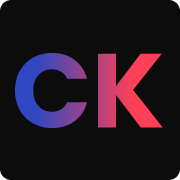
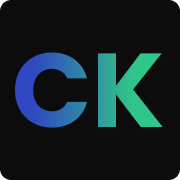
colors makeover

diff --git a/app/about/page.tsx b/app/about/page.tsx
@@ -117,7 +117,7 @@ export default function Page() {
         </h1>
       </button>
       <div className="relative group rounded-lg w-full text-justify p-3 xs:p-6 xs:px-10 py-6">
-        <div className="absolute -inset-0 rounded-lg bg-gradient-to-r from-darkCk/50 to-lightCk/50 opacity-20 transition duration-500 group-hover:opacity-50"></div>
+        <div className="absolute -inset-0 rounded-lg bg-gradient-to-r from-blue/50 to-green/50 opacity-20 transition duration-500 group-hover:opacity-50"></div>
         <h2 className={`relative text-2xl xxs:text-3xl md:text-4xl text-center`}>Description</h2>
         <p className="relative text-lg xs:text-xl mt-4">
           Hi there! My name is Chhatresh Khatri and I&apos;m a Full Stack developer with a passion for building modern and user-friendly websites and
@@ -134,7 +134,7 @@ export default function Page() {
         </h2>
       </button>
       <div className="relative group rounded-lg w-full">
-        <div className="absolute -inset-0 rounded-lg bg-gradient-to-r from-darkCk/50 to-lightCk/50 opacity-20 transition duration-500 group-hover:opacity-50"></div>
+        <div className="absolute -inset-0 rounded-lg bg-gradient-to-r from-blue/50 to-green/50 opacity-20 transition duration-500 group-hover:opacity-50"></div>
         <div className="relative flex flex-col w-full p-3 xs:p-6 xs:px-10 py-6 gap-4">
           <Skills skillName="Languages" arrayName={languages} />
           <Skills skillName="Frameworks & Libraries" arrayName={frameworks} />

diff --git a/app/page.tsx b/app/page.tsx
@@ -14,7 +14,7 @@ export default function Home() {
         </button>
       </div>
       <div className="relative group grid grid-cols-1 w-full lg:grid-cols-3">
-        <div className="absolute -inset-0 rounded-lg bg-gradient-to-r from-darkCk/50 to-lightCk/50 opacity-20 transition duration-500 group-hover:opacity-50"></div>
+        <div className="absolute -inset-0 rounded-lg bg-gradient-to-r from-blue/50 to-green/50 opacity-20 transition duration-500 group-hover:opacity-50"></div>
         <div className="relative order-2 lg:order-1 lg:col-span-2 flex justify-end items-center rounded-lg">
           {/* Content for the first column */}
           <div className="w-full h-full flex flex-col justify-center rounded-lg p-2 md:gap-4 xs:p-6">

diff --git a/app/components/ProjectHolder.tsx b/app/components/ProjectHolder.tsx
@@ -31,7 +31,7 @@ const ProjectHolder: React.FC<CustomProps> = ({
 }) => {
   return (
     <div className="group relative">
-      <div className="absolute -inset-0 rounded-lg bg-gradient-to-r from-darkCk/50 to-lightCk/50 opacity-20 transition duration-500 group-hover:opacity-50"></div>
+      <div className="absolute -inset-0 rounded-lg bg-gradient-to-r from-blue/50 to-green/50 opacity-20 transition duration-500 group-hover:opacity-50"></div>
       <div className="relative grid grid-cols-1 w-full gap-1 lg:grid-cols-2 rounded-xl p-3 xs:p-6">
         <div className={`${order == "odd" ? "" : "lg:order-2"}`}>
           {/* Content for the first column */}

diff --git a/tailwind.config.ts b/tailwind.config.ts
@@ -27,13 +27,15 @@ const config: Config = {
       colors: {
         dark: "#191919",
         light: "#f3f3FF",
-        darkCk: "#5740FF",
-        lightCk: "#FF4057",
+        darkCk: "#4158D0",
+        lightCk: "#FFCC70",
         darked: "#0c0c0c",
-        contentBg: "#E3E3FF",
-        navbarBg: "#D3D3FF",
+        contentBg: "#dde6ff",
+        navbarBg: "#c7e1fc",
         darker: "#101010",
-        lighter: "#f3f3ff",
+        lighter: "#e9e9ff",
+        blue: "#1952C0",
+        green: "#20C68A"
       },
 
       dropShadow: {

diff --git a/app/components/Navbar.tsx b/app/components/Navbar.tsx
@@ -46,7 +46,7 @@ const Navbar = () => {
     <nav
       className={`${
         navOpen || scrolled
-          ? " bg-navbarBg/70 dark:bg-darker/80 backdrop-blur-md shadow-bottom py-2 transition-navBar duration-200 ease-in-out"
+          ? " bg-navbarBg/60 dark:bg-darker/70 backdrop-blur-md shadow-bottom py-2 transition-navBar duration-200 ease-in-out"
           : "py-2.5"
       } w-full flex flex-col items-center px-3 xs:px-6 md:px-12 lg:px-20 fixed z-10 top-0`}>
       <div className="flex justify-between w-full">

diff --git a/app/components/icons.js b/app/components/icons.js
@@ -16,7 +16,7 @@ export const ChhatreshKhatri = ({ className, ...rest }) => (
     <defs>
       <linearGradient id="paint0_linear_2_2" x1="0" y1="8.80005" x2="241" y2="8.80003" gradientUnits="userSpaceOnUse">
         <stop stopColor="#5740FF" />
-        <stop offset="1" stopColor="#FF4057" />
+        <stop offset="1" stopColor="#30C68A" />
       </linearGradient>
     </defs>
   </svg>
